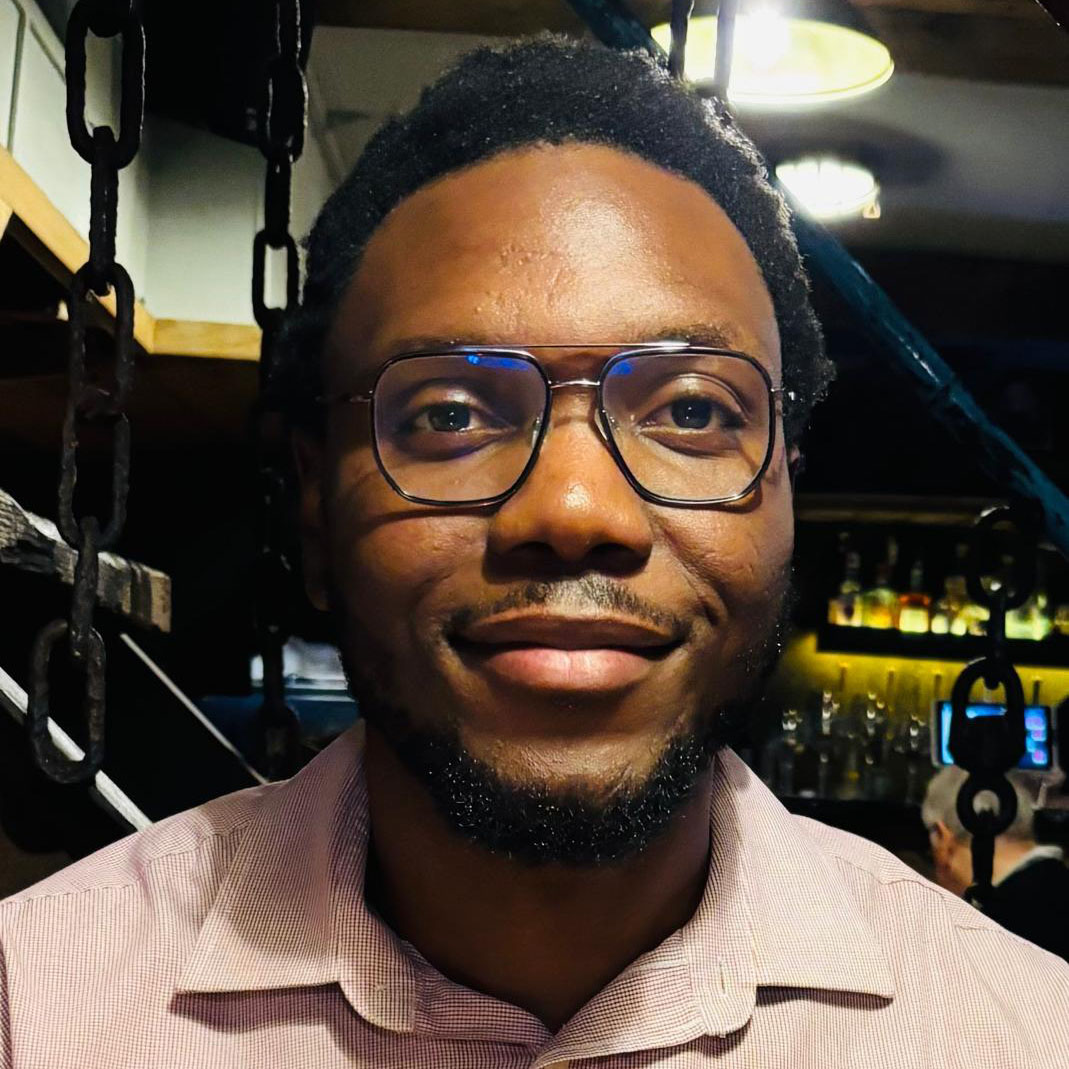
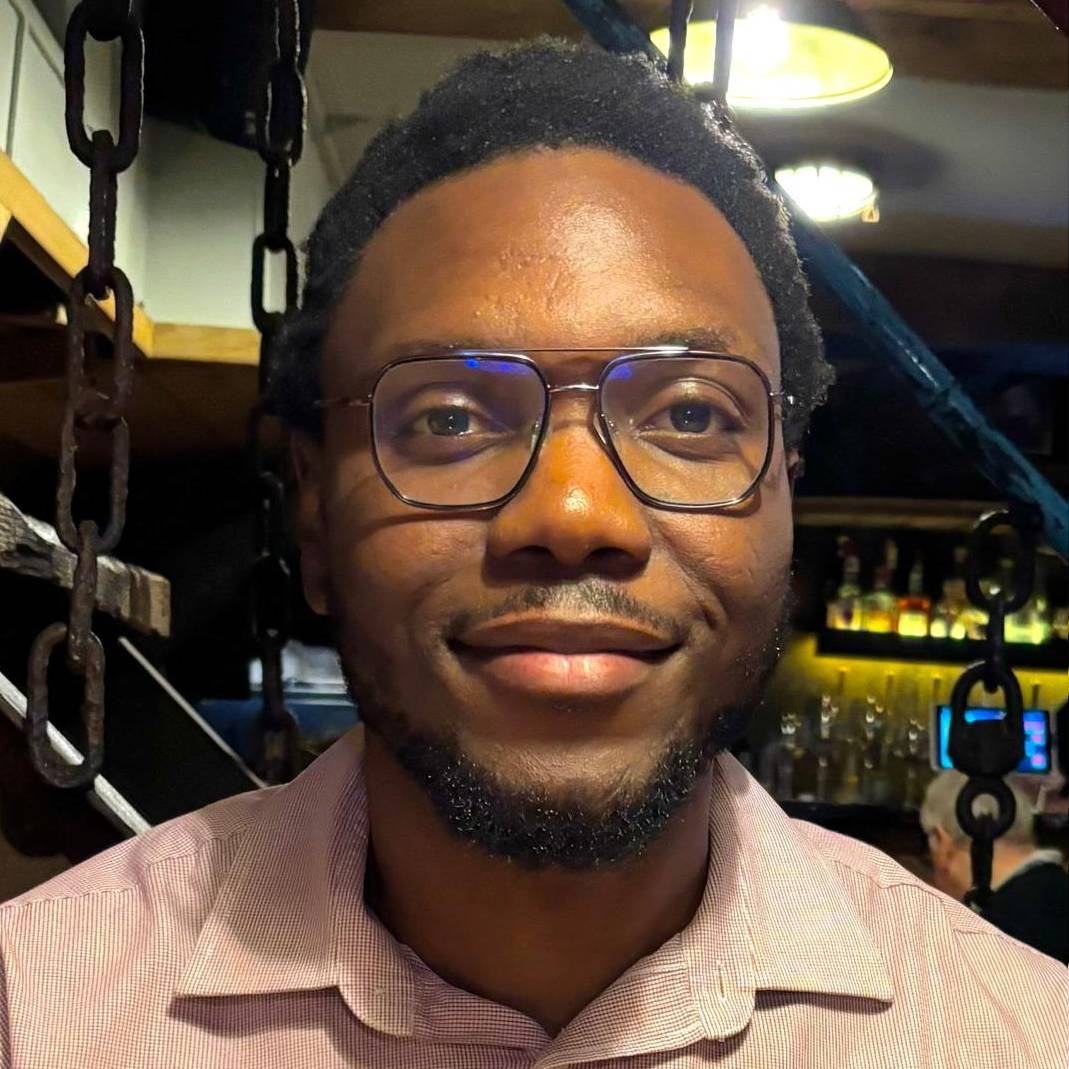
v1

diff --git a/index.html b/index.html
@@ -659,6 +659,12 @@
         <!-- Section Confirmation -->
         <section id="confirmation" class="relative py-12 sm:py-16 md:py-24 px-4 sm:px-6" style="background: linear-gradient(to bottom, #937863 0%, rgb(45, 86, 68) 100%);">
             <div class="max-w-4xl mx-auto">
+                <!-- Image au-dessus de la section Confirmation -->
+                <div class="mb-8 sm:mb-12 md:mb-16">
+                    <div class="w-full h-56 sm:h-72 md:h-80 overflow-hidden shadow-lg">
+                        <img src="public/Pre-wedding Philip & Patricia_18.jpg" alt="Patricia & Philip - Confirmation" class="w-full h-full object-cover" style="object-position: center 30%;">
+                    </div>
+                </div>
                 <div class="text-center mb-8 sm:mb-12 md:mb-16">
                     <h2 class="text-3xl sm:text-4xl md:text-5xl lg:text-7xl font-light text-white mb-4 sm:mb-6" style="font-family: 'Playfair Display', serif; letter-spacing: 0.02em;">
                         Confirmation
@@ -700,7 +706,7 @@
                 <!-- Image au-dessus de la section Cadeaux -->
                 <div class="mb-8 sm:mb-12 md:mb-16">
                     <div class="w-full h-56 sm:h-72 md:h-80 overflow-hidden shadow-lg">
-                        <img src="public/Pre-wedding Philip & Patricia_14.jpg" alt="Patricia & Philip - Cadeaux" class="w-full h-full object-cover">
+                        <img src="public/Pre-wedding Philip & Patricia_17.jpg" alt="Patricia & Philip - Cadeaux" class="w-full h-full object-cover" style="object-position: center 25%;">
                     </div>
                 </div>
                 <div class="text-center mb-8 sm:mb-12 md:mb-16">
